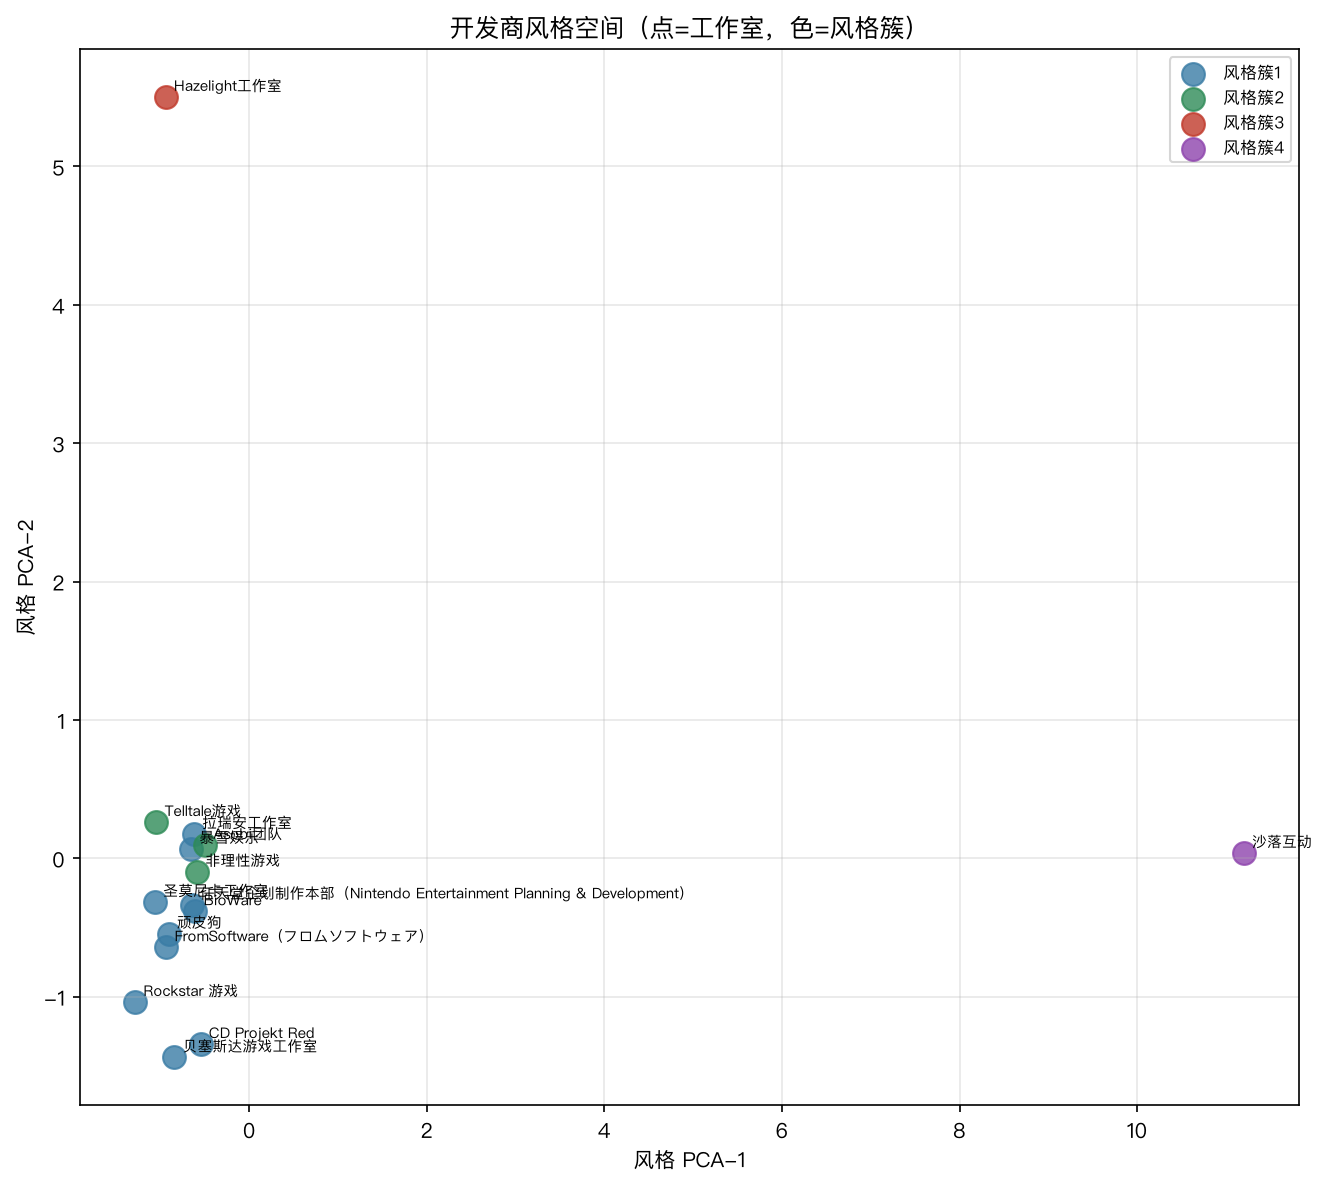
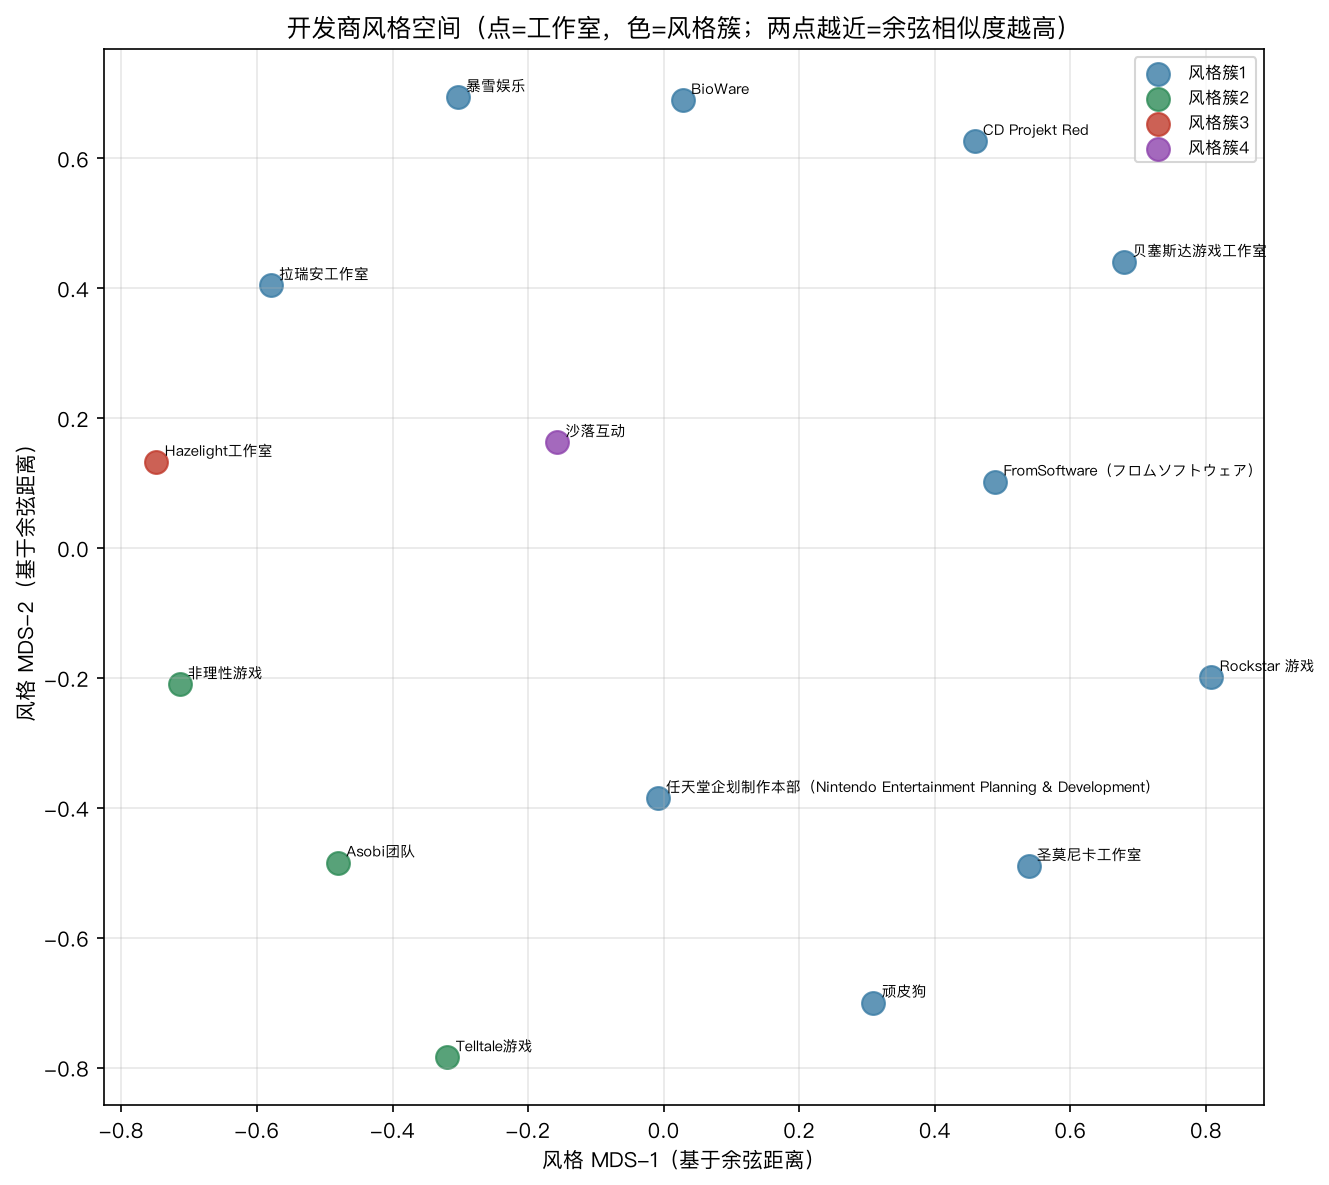
fix(ml): 开发商风格散点从 PCA 改为 MDS(余弦距离)，与余弦相似度指标一致

diff --git a/analysis/ml/analyzers.py b/analysis/ml/analyzers.py
@@ -16,6 +16,7 @@ import pandas as pd
 import networkx as nx
 from sklearn.preprocessing import StandardScaler
 from sklearn.decomposition import PCA
+from sklearn.manifold import MDS
 from sklearn.metrics import silhouette_score
 from sklearn.cluster import KMeans, AgglomerativeClustering
 from sklearn.metrics.pairwise import cosine_similarity
@@ -520,14 +521,20 @@ class StudioStyleAnalyzer(Analyzer):
         Z = linkage(S, method="ward")
         labels = fcluster(Z, k_stu, criterion="maxclust")
 
-        # PCA 二维用于散点可视化
-        pcs = PCA(n_components=2, random_state=cfg.random_state).fit_transform(S)
+        # 二维散点：用 MDS 嵌入「余弦距离矩阵」(Dcos = 1 - 余弦相似度)。
+        # 这与上面报告所用的余弦相似度是同一指标——若改用 PCA(Euclidean)，
+        # 在 53 维标准化空间 + 仅 15 家工作室时，2D 投影与余弦相似度几乎无关
+        # (实测 Spearman≈0.14)，散点会与相似度表对不上、违背直觉。
+        Dcos = 1.0 - sim
+        coords = MDS(n_components=2, metric=True, dissimilarity="precomputed",
+                     init="random", random_state=cfg.random_state, n_init=10
+                     ).fit_transform(Dcos)
 
         style_df = pd.DataFrame({
             "studio_id": studio_ids,
             "studio": [studio_name.get(s, s) for s in studio_ids],
             "n_games": [len(by_studio[s]) for s in studio_ids],
-            "pca_x": pcs[:, 0], "pca_y": pcs[:, 1],
+            "style_x": coords[:, 0], "style_y": coords[:, 1],
             "style_cluster": labels,
         })
 
@@ -575,7 +582,9 @@ class StudioStyleAnalyzer(Analyzer):
             res.write(f"| {a} | {b} | {s:.3f} |")
         res.write(
             f"\n> 注：相似度高代表两家厂牌的游戏在玩法类型/设计维度上高度重合"
-            "（如都爱做开放世界动作），可作为「厂牌基因」的量化证据；单作品工作室的向量即其唯一作品。\n",
+            "（如都爱做开放世界动作），可作为「厂牌基因」的量化证据；单作品工作室的向量即其唯一作品。\n"
+            "> 散点图用 **MDS 嵌入余弦距离矩阵**（而非 PCA）：因为本报告以余弦相似度衡量风格接近度，"
+            "只有 MDS(余弦距离) 才能忠实还原「点越近≈相似度越高」的几何关系——此前用 PCA 会因欧氏/角度度量不一致而扭曲排布。\n",
             f"![工作室风格相似度]({PNG['studio_sim']})\n",
             f"![工作室风格散点]({PNG['studio_style_scatter']})\n",
         )

diff --git a/analysis/ml/visualizers.py b/analysis/ml/visualizers.py
@@ -321,13 +321,13 @@ class StudioStyleScatterViz(Visualizer):
         fig, ax = plt.subplots(figsize=(9, 8))
         for c in sorted(df["style_cluster"].unique()):
             sub = df[df["style_cluster"] == c]
-            ax.scatter(sub["pca_x"], sub["pca_y"], s=120, alpha=0.8,
+            ax.scatter(sub["style_x"], sub["style_y"], s=120, alpha=0.8,
                        color=PALETTE[int(c) % len(PALETTE)], label=f"风格簇{c}")
         for _, r in df.iterrows():
-            ax.annotate(r["studio"], (r["pca_x"], r["pca_y"]), fontsize=7,
+            ax.annotate(r["studio"], (r["style_x"], r["style_y"]), fontsize=7,
                         xytext=(4, 3), textcoords="offset points")
-        ax.set_xlabel("风格 PCA-1"); ax.set_ylabel("风格 PCA-2")
-        ax.set_title("开发商风格空间（点=工作室，色=风格簇）")
+        ax.set_xlabel("风格 MDS-1（基于余弦距离）"); ax.set_ylabel("风格 MDS-2（基于余弦距离）")
+        ax.set_title("开发商风格空间（点=工作室，色=风格簇；两点越近=余弦相似度越高）")
         ax.legend(fontsize=8, loc="best")
         ax.grid(alpha=0.3)
         return _save(fig, self.filename, ctx.out_dir)

diff --git a/analysis/output/ML_REPORT.md b/analysis/output/ML_REPORT.md
@@ -4,9 +4,9 @@
 
 - 样本：107 款游戏（其中年度最佳 20 款）
 
-- 方法：高频因子特征工程 → 聚类(可插拔算法+PCA) → Louvain 社区发现 → 时代热点统计 → 开发商风格相似性 → 年度最佳(GOTY)特征分析
+- 方法：高频因子特征工程 → 聚类(可插拔算法+PCA) → 社区发现(Louvain 主方法 + Infomap/Map Equation 对照) → 时代热点统计 → 开发商风格相似性 → 年度最佳(GOTY)特征分析
 
-- 产物：`analysis/output/` 下的 CSV / JSON / 7 张 PNG
+- 产物：`analysis/output/` 下的 CSV / JSON / 12 张 PNG
 
 
 ## 一、高频因子（特征工程）
@@ -57,27 +57,58 @@
 
 ## 三、社区发现（Louvain）
 
-在游戏-游戏相似投影图上做 Louvain 划分，得到 **14 个社区**，
-**模块度 Q=0.6175**（越接近 1 划分越清晰）。社区即「玩法家族」：
+在游戏-游戏相似投影图上做 louvain 划分，得到 **14 个社区**，**模块度 Q=0.6175**（越接近 1 划分越清晰）。社区即「玩法家族」：
 
 | 社区 | 规模 | 年度最佳成员 | 代表游戏 | 主导玩法类型 |
 |---|---|---|---|---|
-| C0 | 17 | 战神（2018）、侠盗猎车手IV、荒野大镖客：救赎、侠盗猎车手V | 侠盗猎车手IV | 动作冒险(14)、西部动作冒险(2)、未来竞速(1)、第三人称射击(1)、侦探冒险(1) |
-| C1 | 9 | 最后生还者 第二部、神秘海域2：纵横四海 | 神秘海域2：纵横四海 | 动作冒险(5)、生存恐怖(2)、平台跳跃(2)、平台动作(1)、卡丁车竞速(1) |
+| C0 | 17 | 战神（2018）、侠盗猎车手IV、侠盗猎车手V、荒野大镖客：救赎 | 侠盗猎车手IV | 动作冒险(14)、西部动作冒险(2)、未来竞速(1)、第三人称射击(1)、侦探冒险(1) |
+| C1 | 9 | 最后生还者 第二部、神秘海域2：纵横四海 | 神秘海域2：纵横四海 | 动作冒险(5)、生存恐怖(2)、平台跳跃(2)、卡丁车竞速(1)、平台动作(1) |
 | C2 | 9 | 龙腾世纪：审判 | 质量效应2 | 角色扮演(5)、科幻角色扮演(3)、动作角色扮演(1) |
 | C3 | 9 | 行尸走肉（第一季） | 行尸走肉（第一季） | 冒险(4)、互动电影冒险(3)、喜剧冒险(1)、合家欢冒险(1) |
-| C4 | 8 | 上古卷轴V：天际、上古卷轴IV：湮没 | 上古卷轴V：天际 | 动作角色扮演(4)、动作冒险(4)、模拟经营(1)、大型多人在线角色扮演(1)、角色扮演(1) |
-| C5 | 8 | 守望先锋 | 魔兽世界 | 动作角色扮演(3)、英雄射击(2)、大型多人在线角色扮演(1)、数字卡牌(1)、动作冒险(1) |
+| C4 | 8 | 上古卷轴IV：湮没、上古卷轴V：天际 | 上古卷轴IV：湮没 | 动作角色扮演(4)、动作冒险(4)、大型多人在线角色扮演(1)、角色扮演(1)、太空角色扮演(1) |
+| C5 | 8 | 守望先锋 | 魔兽世界 | 动作角色扮演(3)、英雄射击(2)、数字卡牌(1)、动作冒险(1)、即时战略(1) |
 | C6 | 8 | 博德之门3 | 博德之门3 | 动作角色扮演(3)、CRPG(3)、策略角色扮演(2)、动作冒险(1) |
 | C7 | 8 | 只狼：影逝二度、艾尔登法环 | 艾尔登法环 | 动作角色扮演(6)、动作冒险(2)、机甲动作(1) |
-| C8 | 7 | 生化奇兵 | 生化奇兵 | 第一人称射击(4)、策略角色扮演(2)、战术射击(1)、动作角色扮演(1) |
+| C8 | 7 | 生化奇兵 | 生化奇兵 | 第一人称射击(4)、策略角色扮演(2)、动作角色扮演(1)、战术射击(1) |
 | C9 | 7 | 巫师3：狂猎 | 巫师3：狂猎 | 动作角色扮演(3)、动作冒险(3)、角色扮演(3)、数字卡牌(2) |
-| C10 | 7 | 塞尔达传说：旷野之息 | 超级马里奥：奥德赛 | 动作冒险(2)、3D平台跳跃(1)、横向卷轴平台(1)、银河恶魔城(1)、生活模拟(1) |
-| C11 | 5 | 宇宙机器人 | 宇宙机器人 | 增强现实(1)、VR平台跳跃(1)、平台跳跃(1)、虚拟现实(1)、3D平台跳跃(1) |
+| C10 | 7 | 塞尔达传说：旷野之息 | 超级马里奥：奥德赛 | 动作冒险(2)、生活模拟(1)、3D平台跳跃(1)、横向卷轴平台(1)、第三人称射击(1) |
+| C11 | 5 | 宇宙机器人 | 宇宙机器人 | 平台跳跃(1)、3D平台跳跃(1)、虚拟现实(1)、增强现实(1)、VR平台跳跃(1) |
 | C12 | 4 | 双人成行 | 双影奇境 | 合作冒险(2)、解谜冒险(1)、动作冒险(1) |
 | C13 | 1 | 光与影：33号远征队 | 光与影：33号远征队 | 回合制角色扮演(1) |
 
 ![社区图](community_graph.png)
+
+
+**Infomap 社区（玩法家族，按规模）：**
+
+| 社区 | 规模 | 年度最佳成员 | 代表游戏 | 主导玩法类型 |
+|---|---|---|---|---|
+| C0 | 11 | 侠盗猎车手V、侠盗猎车手IV、荒野大镖客：救赎 | 侠盗猎车手IV | 动作冒险(9)、西部动作冒险(2)、侦探冒险(1)、第三人称射击(1) |
+| C1 | 9 | 最后生还者 第二部、神秘海域2：纵横四海 | 神秘海域2：纵横四海 | 动作冒险(5)、生存恐怖(2)、平台跳跃(2)、卡丁车竞速(1)、平台动作(1) |
+| C2 | 9 | 龙腾世纪：审判 | 质量效应2 | 角色扮演(5)、科幻角色扮演(3)、动作角色扮演(1) |
+| C3 | 9 | 行尸走肉（第一季） | 行尸走肉（第一季） | 冒险(4)、互动电影冒险(3)、合家欢冒险(1)、喜剧冒险(1) |
+| C4 | 8 | 上古卷轴IV：湮没、上古卷轴V：天际 | 上古卷轴IV：湮没 | 动作角色扮演(4)、动作冒险(4)、大型多人在线角色扮演(1)、太空角色扮演(1)、角色扮演(1) |
+| C5 | 8 | 博德之门3 | 博德之门3 | 动作角色扮演(3)、CRPG(3)、策略角色扮演(2)、动作冒险(1) |
+| C6 | 8 | 只狼：影逝二度、艾尔登法环 | 艾尔登法环 | 动作角色扮演(6)、动作冒险(2)、机甲动作(1) |
+| C7 | 8 | 守望先锋 | 魔兽世界 | 动作角色扮演(3)、英雄射击(2)、数字卡牌(1)、动作冒险(1)、即时战略(1) |
+| C8 | 7 | 生化奇兵 | 生化奇兵 | 第一人称射击(4)、策略角色扮演(2)、战术射击(1)、动作角色扮演(1) |
+| C9 | 7 | 巫师3：狂猎 | 巫师3：狂猎 | 角色扮演(3)、动作角色扮演(3)、动作冒险(3)、数字卡牌(2) |
+| C10 | 7 | 塞尔达传说：旷野之息 | 超级马里奥：奥德赛 | 动作冒险(2)、生活模拟(1)、3D平台跳跃(1)、第三人称射击(1)、横向卷轴平台(1) |
+| C11 | 6 | 战神（2018） | 战神（2018） | 动作冒险(5)、未来竞速(1) |
+| C12 | 5 | 宇宙机器人 | 宇宙机器人 | 平台跳跃(1)、3D平台跳跃(1)、虚拟现实(1)、增强现实(1)、VR平台跳跃(1) |
+| C13 | 4 | 双人成行 | 双影奇境 | 合作冒险(2)、动作冒险(1)、解谜冒险(1) |
+| C14 | 1 | 光与影：33号远征队 | 光与影：33号远征队 | 回合制角色扮演(1) |
+
+**主方法与 Infomap（Map Equation）对照：**
+
+| 方法 | 社区数 | 模块度 Q | 编码长度 L |
+|---|---|---|---|
+| Louvain（主） | 14 | 0.6175 | — |
+| infomap | 15 | 0.6173 | 4.8924 |
+
+> **Infomap** 基于**地图方程（Map Equation）**：在图上模拟随机游走，求能使信息流被最短平均编码的模块划分；天然支持层级结构、无需 resolution 调参。其质量指标是**编码长度 L**（越小越好），与模块度 Q 视角不同、可互为印证。二者社区数接近说明「玩法家族」结构稳健。
+
+![Infomap 社区图](community_infomap.png)
 
 
 ## 四、热点统计：奖项的「品味」如何演变
@@ -140,6 +171,7 @@
 | 贝塞斯达游戏工作室 | FromSoftware（フロムソフトウェア） | 0.097 |
 
 > 注：相似度高代表两家厂牌的游戏在玩法类型/设计维度上高度重合（如都爱做开放世界动作），可作为「厂牌基因」的量化证据；单作品工作室的向量即其唯一作品。
+> 散点图用 **MDS 嵌入余弦距离矩阵**（而非 PCA）：因为本报告以余弦相似度衡量风格接近度，只有 MDS(余弦距离) 才能忠实还原「点越近≈相似度越高」的几何关系——此前用 PCA 会因欧氏/角度度量不一致而扭曲排布。
 
 ![工作室风格相似度](studio_similarity_heatmap.png)
 
